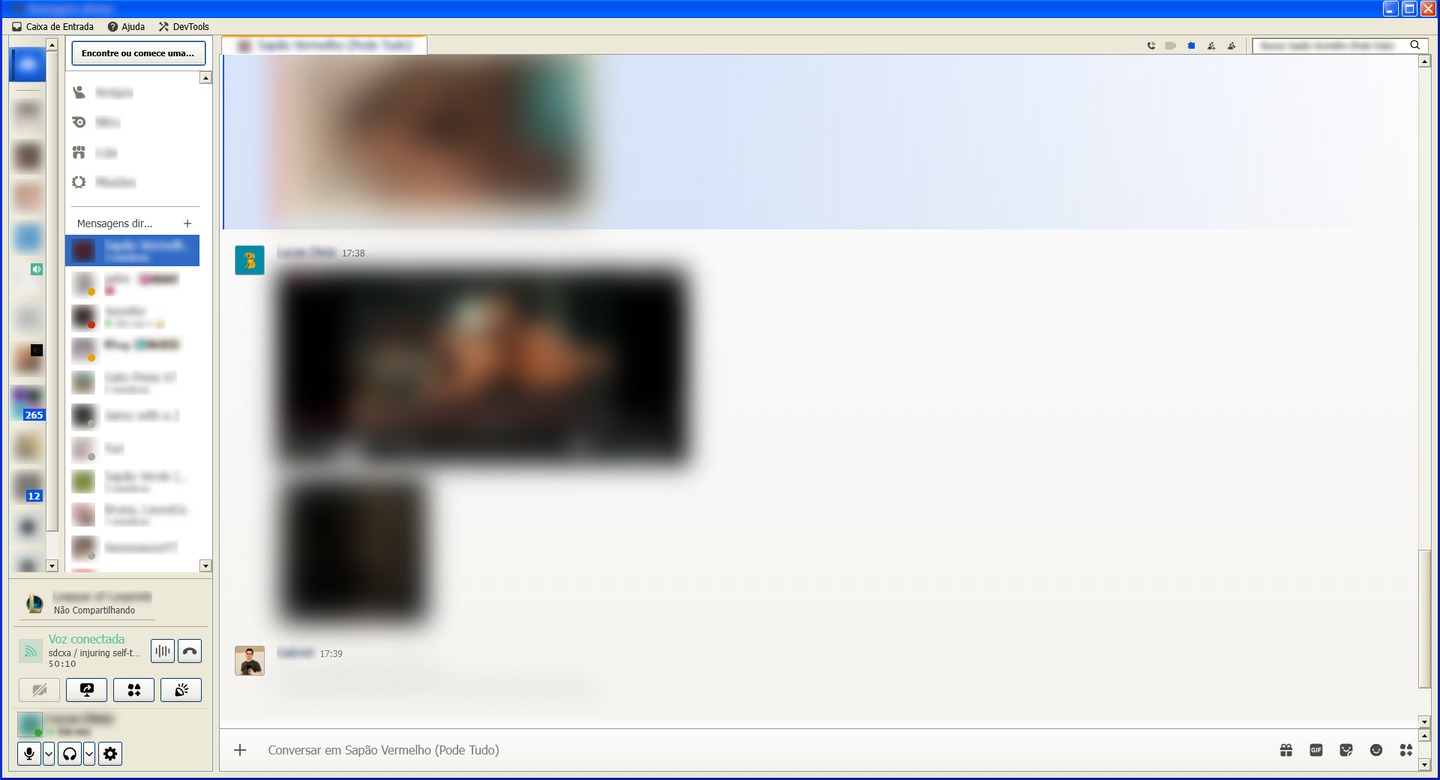
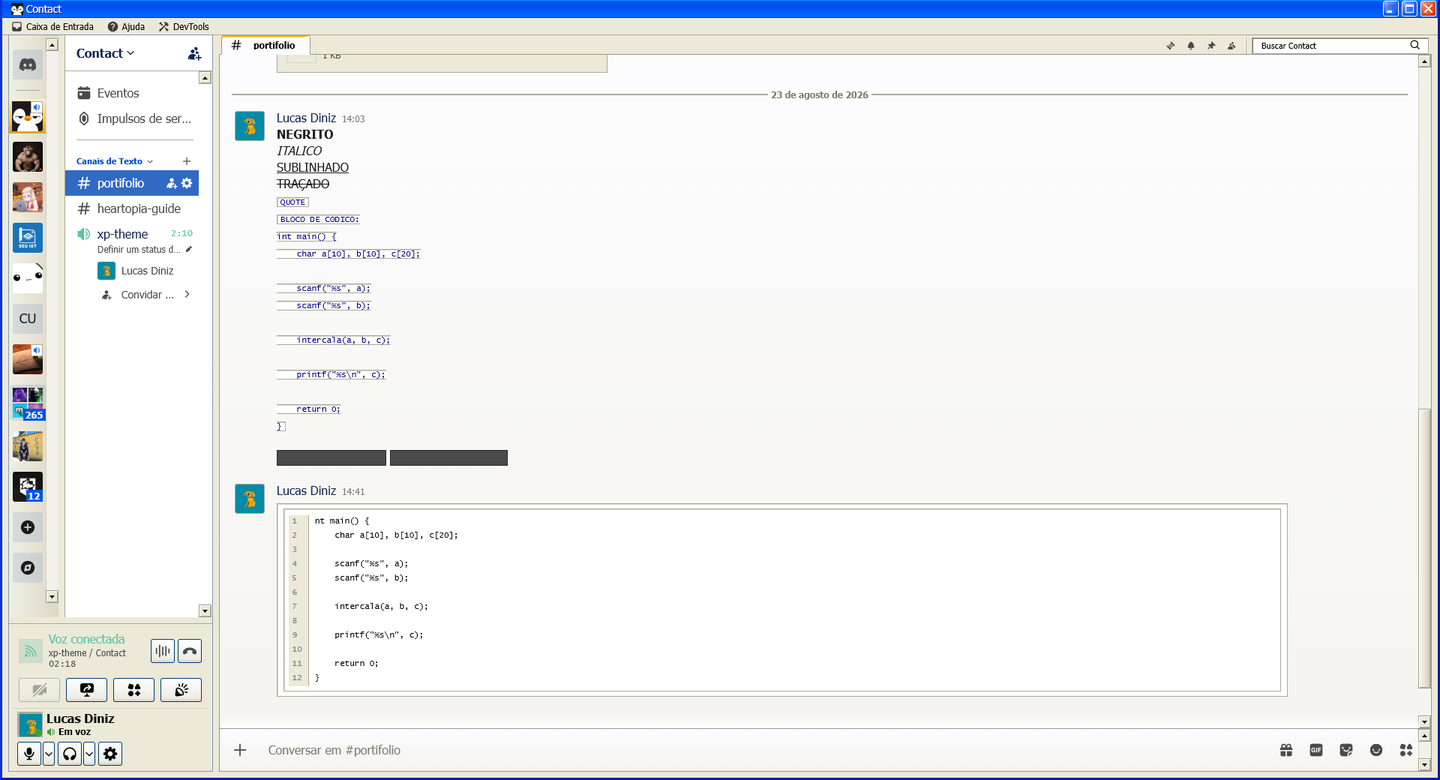
(AD) Controles de video reescritos em cima do player de verdade
As classes que estavam na secao vieram do dump do bundle e nunca existiram
no DOM. Medido no player inline: .videoControls_ vinha em rgba(0,0,0,.6),
.mediaBarInteraction_ pintava uma faixa branca em volta do trilho, o balao
de tempo era preto e a alcinha media 0x0 - e um <span>, sem display:block o
width/height nao pega.

Prints de conversa e servidor refeitos no servidor Contact, que so tem
conteudo do proprio dono - sem borrao.

diff --git a/XPLuna.theme.css b/XPLuna.theme.css
@@ -3110,19 +3110,27 @@ button[class*="button_"][class*="hasText_"][class*="active_"]:active {
 /* ============================================================
    (AD) CONTROLES DE VIDEO
 
-   Classes do bundle:
-     .videoControlsCont_b824c5   a barra
-     .videoControlsBtn_b824c5    cada botao
-     .controlsBarItem_b824c5     item da barra (+ ...Active)
-     .mediaBarInteraction_b26b79 trilho de progresso/volume
-     .mediaBarProgress_b26b79    parte preenchida
-     .mediaBarGrabber_b26b79     a alcinha
+   Reescrita depois de medir o player de verdade. As classes que
+   estavam aqui antes (.videoControlsCont_, .videoControlsBtn_,
+   .controlsBarItem_) sairam do dicionario do bundle e nunca
+   apareceram no DOM - o player inline usa outras:
+
+     .videoControls_        a barra (vinha em rgba(0,0,0,.6))
+     .videoButton_          play/repetir e tela cheia
+     .volumeButton__        o alto-falante
+     .durationTimeDisplay_  os tempos
+     .mediaBarWrapper_      trilho de progresso/volume
+     .mediaBarProgress_     parte preenchida
+     .mediaBarGrabber_      a alcinha (e um <span>: sem display
+                            block o width/height nao pega, por
+                            isso ela media 0x0)
+     .bubble_               o balao de tempo ao arrastar
 
    Referencia e o Windows Media Player do XP: barra bege com luz
    em cima, botoes chapados que so ganham moldura no hover, e o
    trilho afundado com o preenchido em azul Luna.
    ============================================================ */
-[class*="videoControlsCont_"] {
+[class*="videoControls_"] {
     background: linear-gradient(180deg, #f5f4ee, #ece9d8 40%, #ddd9c8) !important;
     border-top: 1px solid var(--xp-light) !important;
     box-shadow: inset 0 -1px var(--xp-shadow) !important;
@@ -3130,57 +3138,73 @@ button[class*="button_"][class*="hasText_"][class*="active_"]:active {
     padding: 3px 6px !important;
     color: #000000 !important;
 }
-[class*="videoControlsBtn_"],
-[class*="controlsBarItem_"] {
+[class*="videoControls_"] [class*="videoButton_"],
+[class*="videoControls_"] [class*="volumeButton__"] {
     background: transparent !important;
     border: 1px solid transparent !important;
     border-radius: 3px !important;
     color: #000000 !important;
     transition: none !important;
 }
-[class*="videoControlsBtn_"]:hover,
-[class*="controlsBarItem_"]:hover {
+[class*="videoControls_"] [class*="videoButton_"]:hover,
+[class*="videoControls_"] [class*="volumeButton__"]:hover {
     border-color: #8e8b7c !important;
     background: linear-gradient(180deg, #fffaef, #ffe6a8 60%, #ffd25e) !important;
 }
-[class*="controlsBarItemActive_"] {
-    border-color: #8e8b7c !important;
-    background: linear-gradient(180deg, #e6c887, #fbe3ab 45%, #fff2d4) !important;
-    box-shadow: inset 1px 1px #c9a24a !important;
-}
-[class*="videoControlsBtn_"] svg,
-[class*="controlsBarItem_"] svg {
+[class*="videoControls_"] svg {
     color: #000000 !important;
 }
-[class*="videoControlsBtnContDisabled_"] svg {
-    color: #a5a190 !important;
-    filter: drop-shadow(1px 1px 0 #ffffff) !important;
-}
 /* tempo decorrido em Tahoma, como o WMP */
-[class*="videoControlsCont_"] [class*="timestamp_"] {
+[class*="durationTimeDisplay_"],
+[class*="durationTimeSeparator_"] {
     font: 11px Tahoma, 'Segoe UI', 'Segoe UI Emoji', sans-serif !important;
     color: #000000 !important;
 }
 
-/* trilho afundado + preenchido azul */
+/* trilho afundado + preenchido azul. O sulco fica no .mediaBarWrapper_;
+   o .mediaBarInteraction_ por fora e so area de clique, tem que ficar
+   transparente ou vira uma faixa branca em volta do trilho. */
 [class*="mediaBarInteraction_"] {
+    background: transparent !important;
+    border: none !important;
+    box-shadow: none !important;
+}
+[class*="mediaBarWrapper_"] {
     background: #ffffff !important;
     border: 1px solid var(--xp-shadow) !important;
     border-radius: 0 !important;
     box-shadow: inset 1px 1px #7f7c6e !important;
-    height: 10px !important;
+    position: relative !important;
+}
+[class*="buffer_"] {
+    background: #d8d4c4 !important;
+    border-radius: 0 !important;
 }
 [class*="mediaBarProgress_"] {
     background: linear-gradient(180deg, #6fb4ff, #2f7fe8 50%, #0d55c4) !important;
     border-radius: 0 !important;
+    position: relative !important;
 }
 [class*="mediaBarGrabber_"] {
+    display: block !important;
+    position: absolute !important;
+    right: -4px !important;
+    top: 50% !important;
+    transform: translateY(-50%) !important;
+    width: 8px !important;
+    height: 14px !important;
     background: linear-gradient(180deg, #ffffff, #ecebe5 86%, #d8d0c4) !important;
     border: 1px solid var(--xp-frame-dark) !important;
     border-radius: 2px !important;
-    width: 9px !important;
-    height: 16px !important;
     box-shadow: none !important;
+}
+/* o balao de tempo era preto: vira dica de ferramenta do XP */
+[class*="videoControls_"] [class*="bubble_"] {
+    background: #ffffe1 !important;
+    border: 1px solid #000000 !important;
+    border-radius: 0 !important;
+    color: #000000 !important;
+    font: 11px Tahoma, 'Segoe UI', 'Segoe UI Emoji', sans-serif !important;
 }
 
 /* ============================================================

diff --git a/CLAUDE.md b/CLAUDE.md
@@ -182,6 +182,15 @@ principal também e derruba a barra de menu.
 que é a aba; com `flex: 1 1 auto` a aba vai a 2700px e joga a toolbar para fora
 da tela. Está escondido na seção (AG).
 
+**Alcinha de slider que não aparece.** `.mediaBarGrabber_` é um `<span>`.
+Sem `display: block` o `width`/`height` não pega e ela mede 0×0 — o CSS
+estava lá, aplicado, e mesmo assim invisível.
+
+**Nome de classe do bundle não é garantia.** A seção (AD) foi escrita a
+partir de `.videoControlsCont_`/`.controlsBarItem_` tiradas do dump do
+CSS. Nenhuma das duas existe no DOM: o player inline usa
+`.videoControls_`/`.videoButton_`. Confira no DOM, não no dump.
+
 **Máscara de avatar.** `foreignObject { mask: none }` é o que deixa o avatar
 quadrado — e é a mesma máscara que o plugin RadialStatus usa para recortar o
 anel de presença. Os dois não convivem.
